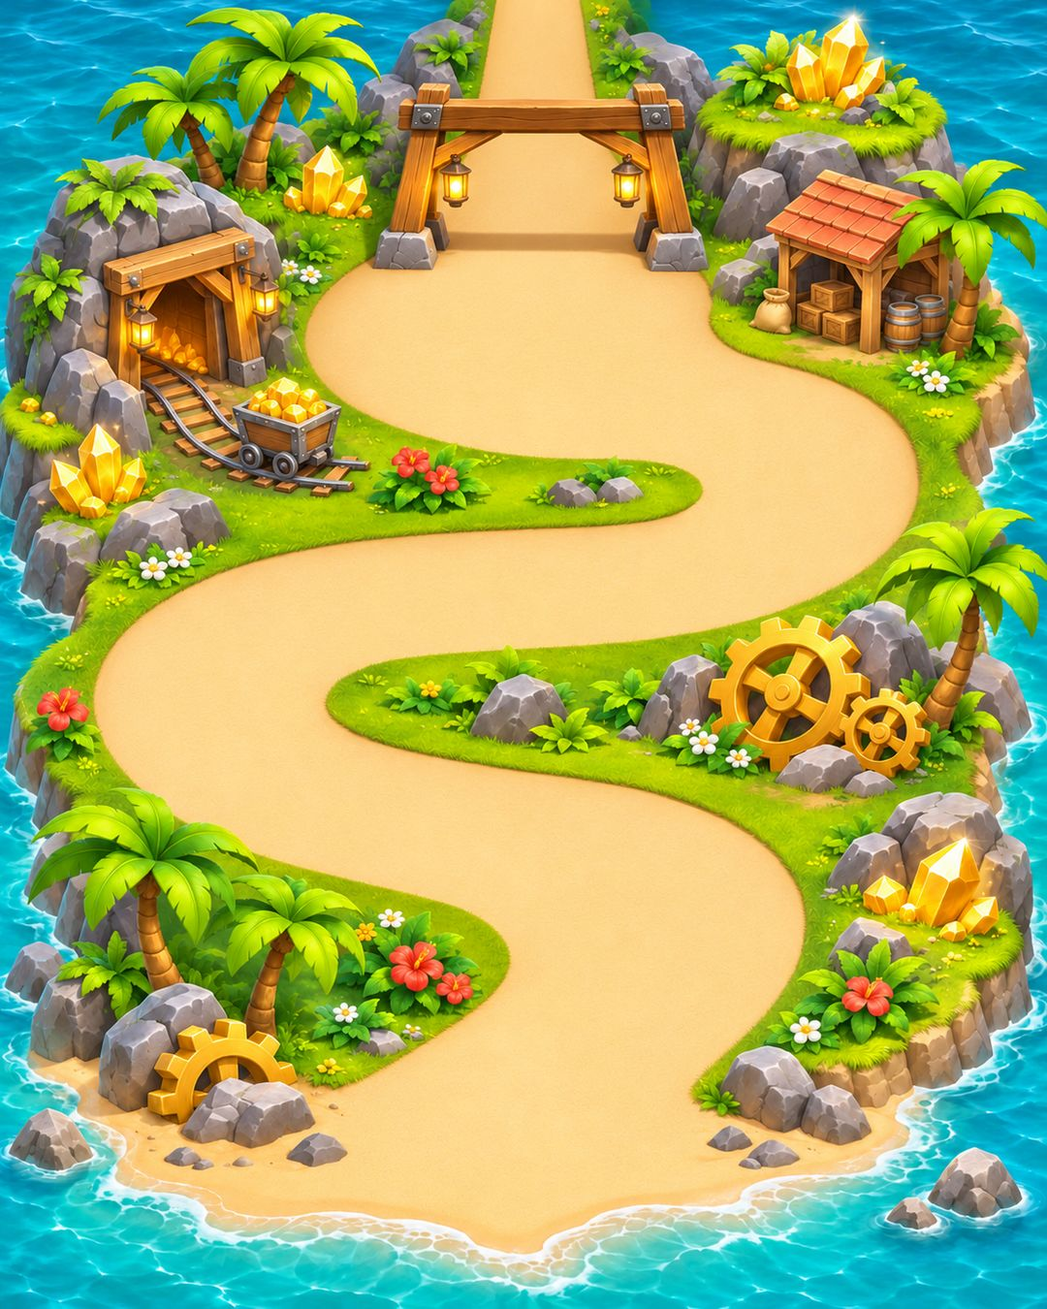
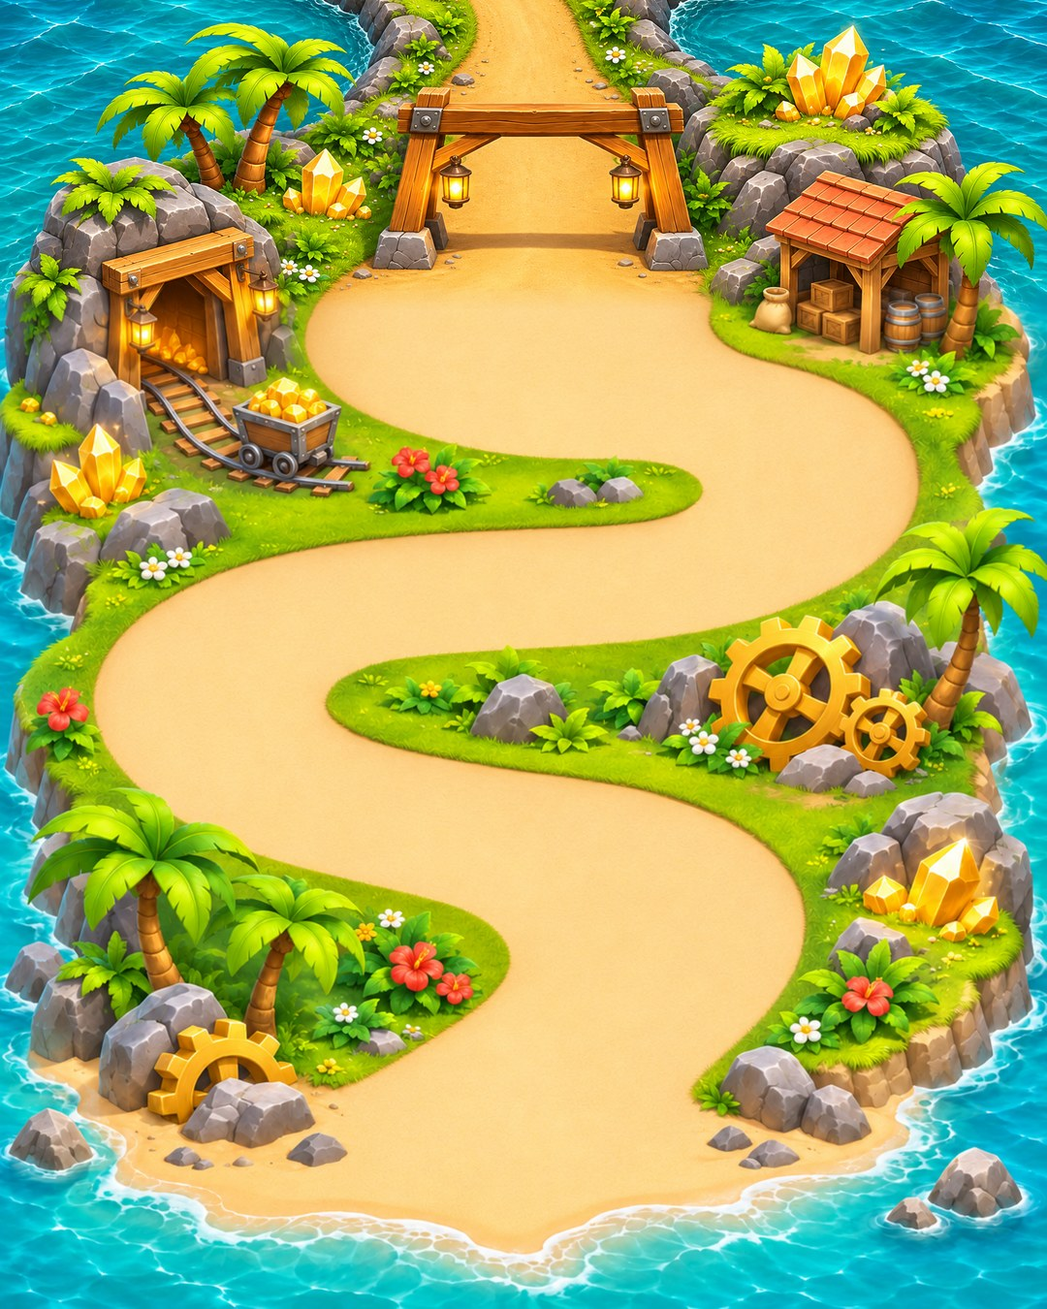
金島第二區「水晶礦谷」上線：開放到第 55 格
- 換上 Codex 核定版 v3 的第一區與第二區背景（成對使用；第一區上方 320px 為接縫修整，其餘與原圖一致、無位移）
- 第 31～55 格換成最終座標（31～34 在第一區圖上方道路，35～55 在水晶礦谷），格子類型為家長確認版
- 開放第二區：第 30 格可通過、第 55 格為邊界（回起點下一輪改在第 55 格），區域名稱與邊界訊息自動對應
- 地圖顯示所有已開放區域的格子；任意門可在整座島已開放的格子間傳送
- 更新單元測試與 E2E（55 格對齊、第 55 格停止、跨區移動）；sw.js 升版 cgp-shell-v45；App 版本 2026.11.07-35

Claude-Session: https://claude.ai/code/session_01W9KMAjsCX9MNXC5NxB6PY5

Changed region(s): [[0.0, 0.0, 1.0, 0.2489]]

diff --git a/tests/e2e.js b/tests/e2e.js
@@ -631,8 +631,8 @@ async function main() {
     await q.goto(url + '#map-' + id);
     await q.waitForSelector('#pawn');
     // 地圖：4 個命運格（暫用 🔮）＋圖例
-    assert.deepEqual(await q.$$eval('.mtile.mt-fate', (els) => els.map((e) => +e.dataset.n)), [11, 14, 21, 27]);
-    assert.equal(await q.locator('.mt-fate .tile-art img[src="images/tiles/fate.webp"]').count(), 4, '命運格用水晶球圖');
+    assert.deepEqual(await q.$$eval('.mtile.mt-fate', (els) => els.map((e) => +e.dataset.n)), [11, 14, 21, 27, 41, 44, 51]);
+    assert.equal(await q.locator('.mt-fate .tile-art img[src="images/tiles/fate.webp"]').count(), 7, '命運格用水晶球圖（第一、二區共 7 格）');
     await q.waitForFunction(() => [...document.querySelectorAll('.mt-fate img')].every((i) => i.complete && i.naturalWidth === 192));
     assert.match(await q.locator('.legend').innerText(), /命運/);
     // 擲 4 → 第 14 格命運格 → 後退 2 格到第 12 格（寶箱格不觸發）
@@ -643,7 +643,7 @@ async function main() {
     assert.match(msg, /命運卡[\s\S]*往回退了 2 格/);
     assert.match(msg, /停在第 12 格/);
     await q.click('#confirm [data-yes]');
-    assert.equal(await q.locator('[data-testid=pos]').innerText(), '12 / 30');
+    assert.equal(await q.locator('[data-testid=pos]').innerText(), '12 / 55');
     assert.equal(await q.locator('#pawn').getAttribute('data-tile'), 'gold-01-012');
     // 擲 2 → 第 14 格命運格 → 特殊任務：讚美與感謝（0.3）
     await q.evaluate(() => { const seq = [1.5 / 6, 0.3]; window.__cgpStore.random = () => (seq.length ? seq.shift() : 0); });
@@ -970,7 +970,7 @@ async function main() {
     const pt = await q.evaluate(() => {
       const view = document.getElementById('map-view').getBoundingClientRect();
       const cand = [...document.querySelectorAll('.mtile')].map((el) => ({ n: +el.dataset.n, r: el.getBoundingClientRect() }))
-        .filter((t) => t.n !== 7 && t.n < 30 && t.r.left > view.left + 10 && t.r.right < view.right - 60 && t.r.top > view.top + 10 && t.r.bottom < view.bottom - 10);
+        .filter((t) => t.n !== 7 && t.n < 55 && t.r.left > view.left + 10 && t.r.right < view.right - 60 && t.r.top > view.top + 10 && t.r.bottom < view.bottom - 10);
       const t = cand.find((c) => c.n === 5) || cand[0];
       return { n: t.n, x: t.r.left + t.r.width / 2, y: t.r.top + t.r.height / 2 };
     });
@@ -981,11 +981,11 @@ async function main() {
     assert.equal(await q.evaluate((cid) => window.__cgpStore.getPlayer(cid).bag.door, id), 0);
     await q.waitForSelector('#confirm[open]', { timeout: 10000 }).catch(() => {});
     if (await q.locator('#confirm[open] [data-yes]').count()) await q.click('#confirm [data-yes]');
-    // 飛行翼：前進 20 格（不超過第 30 格）
+    // 飛行翼：前進 20 格（不超過第 55 格）
     const before = await q.evaluate((cid) => window.__cgpStore.getPlayer(cid).pos, id);
     await q.evaluate(() => { window.__cgpStore.random = () => 0.5; });
     await q.click('.item-btn[data-kind=wings]');
-    await q.waitForFunction((b) => +document.querySelector('[data-testid=pos]').textContent.split(' ')[0] === Math.min(30, b + 20), before, { timeout: 15000 });
+    await q.waitForFunction((b) => +document.querySelector('[data-testid=pos]').textContent.split(' ')[0] === Math.min(55, b + 20), before, { timeout: 15000 });
     const over = await q.evaluate(() => document.documentElement.scrollWidth - document.documentElement.clientWidth);
     assert.ok(over <= 0);
     console.log('✔ 寶物商店 Phase 4A：道具列、神奇骰子＋命運重骰券、好運金牌、再來 3 次、任意門點選格子、飛行翼');
@@ -1275,6 +1275,7 @@ async function main() {
   // ---------- 金島第一區地圖：手機顯示、對齊、逐格移動、重新整理恢復、舊存檔遷移、第 30 格停止 ----------
   {
     const REGION = require('../js/board-gold.js');
+    const REGION02 = require('../js/board-gold-02.js');
     for (const width of [360, 390, 430]) {
       const cx = await browser.newContext({ viewport: { width, height: 800 }, deviceScaleFactor: 2, isMobile: true, hasTouch: true, serviceWorkers: 'block' });
       const q = await cx.newPage();
@@ -1313,7 +1314,7 @@ async function main() {
         };
       });
       const count = (t) => arts.types.filter((x) => x === t).length;
-      assert.deepEqual([count('start'), count('chest'), count('chance'), count('fate'), count('minigame'), count('boundary')], [1, 4, 5, 4, 3, 1], '格子圖示數量');
+      assert.deepEqual([count('start'), count('chest'), count('chance'), count('fate'), count('minigame'), count('boundary')], [1, 8, 9, 7, 6, 1], '格子圖示數量（第一、二區）');
       assert.deepEqual(arts.fit, ['contain']); assert.deepEqual(arts.bg, ['rgb(255, 255, 255)']);
       assert.deepEqual(arts.legend, ['chest.webp', 'chance.webp', 'fate.webp', 'minigame.webp', 'door.webp']);
       assert.ok(arts.startHere, '角色在起點：起點旗讓位');
@@ -1331,10 +1332,11 @@ async function main() {
           return { tiles, bgw: bg.width, pawnW: pr.width, pawnFeet: { x: pr.left + pr.width / 2, y: pr.bottom },
             tileC: tile ? (() => { const r = tile.getBoundingClientRect(); return { x: r.left + r.width / 2, y: r.top + r.height / 2 }; })() : null };
         });
-        assert.equal(m.tiles.length, 30, label + '：30 格');
+        assert.equal(m.tiles.length, 55, label + '：55 格（第一、二區）');
         for (const t of m.tiles) {
-          const j = REGION.tiles[t.n - 1];
-          assert.ok(Math.abs(t.cx - j.x) * m.bgw < 1.5 && Math.abs(t.cy - j.y) * m.bgw * 1.25 < 1.5, label + '：第 ' + t.n + ' 格對齊 JSON');
+          // 對照第一區背景：1～30 格用第一區 JSON；31～55 格用長地圖總覽座標換算（y 以第一區背景上緣為 0，第二區在其上方為負值）
+          const j = t.n <= 30 ? REGION.tiles[t.n - 1] : (() => { const r = REGION02.tiles[t.n - 31]; return { x: r.gx / 1080, y: (r.gy - 4050) / 1350 }; })();
+          assert.ok(Math.abs(t.cx - j.x) * m.bgw < 1.5 && Math.abs(t.cy - j.y) * m.bgw * 1.25 < 1.5, label + '：第 ' + t.n + ' 格對齊座標');
         }
         const tileW = m.tiles[0].w;
         if (m.tileC) {
@@ -1386,23 +1388,23 @@ async function main() {
         }, id);
         await q.reload(); await q.waitForSelector('#pawn');
         assert.equal(await q.locator('#pawn').getAttribute('data-tile'), 'gold-01-012', '舊整數格號遷移');
-        assert.equal(await q.locator('[data-testid=pos]').innerText(), '12 / 30');
-        // 第 30 格安全停止：從第 27 格擲 12，只走到 30，多餘步數捨棄，不能再擲
-        await q.evaluate((cid) => { const s = window.__cgpStore; s.setPlayerTile(cid, 27); s.save(); }, id);
+        assert.equal(await q.locator('[data-testid=pos]').innerText(), '12 / 55');
+        // 第 55 格（第二區邊界）安全停止：從第 52 格擲 12，只走到 55，多餘步數捨棄
+        await q.evaluate((cid) => { const s = window.__cgpStore; s.setPlayerTile(cid, 52); s.save(); }, id);
         await q.reload(); await q.waitForSelector('#pawn');
         await q.evaluate(() => { window.__cgpStore.random = () => 0.99; }); // 重新整理後才固定亂數（擲出 12）
         await q.click('[data-action=roll][data-kind=d12]');
         await q.waitForSelector('#confirm[open]', { timeout: 8000 });
-        assert.match(await q.locator('#confirm').innerText(), /木門[\s\S]*第二區即將開放[\s\S]*新的一輪/);
+        assert.match(await q.locator('#confirm').innerText(), /水晶礦谷的終點[\s\S]*齒輪工坊[\s\S]*即將開放[\s\S]*新的一輪/);
         assert.doesNotMatch(await q.locator('#confirm').innerText(), /通關/, '不是全島通關');
         await q.click('#confirm [data-yes]');
-        assert.equal(await q.locator('#pawn').getAttribute('data-tile'), 'gold-01-030');
+        assert.equal(await q.locator('#pawn').getAttribute('data-tile'), 'gold-02-055');
         assert.match(await q.locator('.map-hint').innerText(), /從起點開始新的一輪/);
         assert.equal(await q.evaluate((cid) => window.__cgpStore.getPlayer(cid).bag.d12, id), 1, '只扣一顆骰子');
         await q.screenshot({ path: SHOT_DIR ? path.join(SHOT_DIR, 'region-end.png') : path.join(require('os').tmpdir(), 'r2.png') });
       }
       await cx.close();
-      console.log('✔ 金島第一區地圖 ' + width + 'px：格子對齊、縮放拖曳、不橫向溢出' + (width === 390 ? '、逐格移動、重新整理恢復、舊存檔遷移、第 30 格停止' : ''));
+      console.log('✔ 金島第一、二區地圖 ' + width + 'px：55 格對齊、縮放拖曳、不橫向溢出' + (width === 390 ? '、逐格移動、重新整理恢復、舊存檔遷移、第 55 格停止' : ''));
     }
   }
 

diff --git a/js/board-gold-02.js b/js/board-gold-02.js
@@ -4,7 +4,7 @@
  */
 (function (root) {
   'use strict';
-  var GOLD_REGION02 = {"status":"draft","world":{"width":1080,"height":5400},"name":"水晶礦谷","backgroundStrip":{"y":2700,"height":1350},"tiles":[{"id":"gold-02-031","order":31,"gx":550,"gy":4290,"type":"normal"},{"id":"gold-02-032","order":32,"gx":540,"gy":4220,"type":"normal"},{"id":"gold-02-033","order":33,"gx":540,"gy":4150,"type":"chance"},{"id":"gold-02-034","order":34,"gx":540,"gy":4080,"type":"normal"},{"id":"gold-02-035","order":35,"gx":540.0,"gy":4010.0,"type":"chest"},{"id":"gold-02-036","order":36,"gx":591.5,"gy":3961.1,"type":"normal"},{"id":"gold-02-037","order":37,"gx":641.4,"gy":3910.6,"type":"minigame"},{"id":"gold-02-038","order":38,"gx":687.4,"gy":3856.5,"type":"normal"},{"id":"gold-02-039","order":39,"gx":725.3,"gy":3796.6,"type":"chance"},{"id":"gold-02-040","order":40,"gx":747.7,"gy":3729.5,"type":"normal"},{"id":"gold-02-041","order":41,"gx":745.5,"gy":3658.9,"type":"fate"},{"id":"gold-02-042","order":42,"gx":719.8,"gy":3592.9,"type":"chest"},{"id":"gold-02-043","order":43,"gx":680.1,"gy":3534.2,"type":"normal"},{"id":"gold-02-044","order":44,"gx":633.3,"gy":3480.8,"type":"fate"},{"id":"gold-02-045","order":45,"gx":583.0,"gy":3430.7,"type":"chance"},{"id":"gold-02-046","order":46,"gx":531.4,"gy":3381.9,"type":"normal"},{"id":"gold-02-047","order":47,"gx":480.0,"gy":3332.8,"type":"minigame"},{"id":"gold-02-048","order":48,"gx":430.6,"gy":3281.9,"type":"normal"},{"id":"gold-02-049","order":49,"gx":385.6,"gy":3227.0,"type":"chest"},{"id":"gold-02-050","order":50,"gx":349.6,"gy":3165.9,"type":"normal"},{"id":"gold-02-051","order":51,"gx":330.8,"gy":3097.7,"type":"fate"},{"id":"gold-02-052","order":52,"gx":337.4,"gy":3027.4,"type":"chance"},{"id":"gold-02-053","order":53,"gx":366.0,"gy":2962.7,"type":"chest"},{"id":"gold-02-054","order":54,"gx":407.3,"gy":2905.0,"type":"minigame"},{"id":"gold-02-055","order":55,"gx":454.9,"gy":2852.3,"type":"boundary"}]};
+  var GOLD_REGION02 = {"status":"final","world":{"width":1080,"height":5400},"name":"水晶礦谷","backgroundStrip":{"y":2700,"height":1350},"tiles":[{"id":"gold-02-031","order":31,"gx":550.0,"gy":4290.0,"backgroundId":"region01","type":"normal"},{"id":"gold-02-032","order":32,"gx":540.0,"gy":4220.0,"backgroundId":"region01","type":"normal"},{"id":"gold-02-033","order":33,"gx":540.0,"gy":4150.0,"backgroundId":"region01","type":"chance"},{"id":"gold-02-034","order":34,"gx":540.0,"gy":4080.0,"backgroundId":"region01","type":"normal"},{"id":"gold-02-035","order":35,"gx":540.0,"gy":4010.0,"backgroundId":"region02","type":"chest"},{"id":"gold-02-036","order":36,"gx":530.0,"gy":3937.6,"backgroundId":"region02","type":"normal"},{"id":"gold-02-037","order":37,"gx":530.0,"gy":3864.4,"backgroundId":"region02","type":"minigame"},{"id":"gold-02-038","order":38,"gx":557.8,"gy":3798.2,"backgroundId":"region02","type":"normal"},{"id":"gold-02-039","order":39,"gx":603.2,"gy":3740.9,"backgroundId":"region02","type":"chance"},{"id":"gold-02-040","order":40,"gx":650.8,"gy":3685.5,"backgroundId":"region02","type":"normal"},{"id":"gold-02-041","order":41,"gx":689.0,"gy":3623.3,"backgroundId":"region02","type":"fate"},{"id":"gold-02-042","order":42,"gx":704.5,"gy":3552.0,"backgroundId":"region02","type":"chest"},{"id":"gold-02-043","order":43,"gx":689.6,"gy":3481.2,"backgroundId":"region02","type":"normal"},{"id":"gold-02-044","order":44,"gx":650.2,"gy":3420.2,"backgroundId":"region02","type":"fate"},{"id":"gold-02-045","order":45,"gx":597.5,"gy":3369.4,"backgroundId":"region02","type":"chance"},{"id":"gold-02-046","order":46,"gx":540.1,"gy":3323.9,"backgroundId":"region02","type":"normal"},{"id":"gold-02-047","order":47,"gx":480.2,"gy":3281.8,"backgroundId":"region02","type":"minigame"},{"id":"gold-02-048","order":48,"gx":420.6,"gy":3239.3,"backgroundId":"region02","type":"normal"},{"id":"gold-02-049","order":49,"gx":362.8,"gy":3194.5,"backgroundId":"region02","type":"chest"},{"id":"gold-02-050","order":50,"gx":321.0,"gy":3134.7,"backgroundId":"region02","type":"normal"},{"id":"gold-02-051","order":51,"gx":325.4,"gy":3063.9,"backgroundId":"region02","type":"fate"},{"id":"gold-02-052","order":52,"gx":360.0,"gy":2999.8,"backgroundId":"region02","type":"chance"},{"id":"gold-02-053","order":53,"gx":409.0,"gy":2945.5,"backgroundId":"region02","type":"chest"},{"id":"gold-02-054","order":54,"gx":464.0,"gy":2897.1,"backgroundId":"region02","type":"minigame"},{"id":"gold-02-055","order":55,"gx":520.0,"gy":2850.0,"backgroundId":"region02","type":"boundary"}]};
   if (typeof module !== 'undefined' && module.exports) module.exports = GOLD_REGION02;
   else root.CGP_GOLD_REGION02 = GOLD_REGION02;
 })(typeof self !== 'undefined' ? self : this);

diff --git a/sw.js b/sw.js
@@ -1,8 +1,8 @@
 /* 親子集點 Service Worker：離線可用。資料存在 localStorage，不受快取影響。 */
-var CACHE = 'cgp-shell-v44';
+var CACHE = 'cgp-shell-v45';
 var SHELL = [
   './', 'index.html', 'css/style.css', 'js/store.js', 'js/rules-csv.js', 'js/report.js', 'js/board-gold.js', 'js/board-gold-02.js', 'js/game.js', 'js/art.js', 'js/app.js',
-  'manifest.webmanifest', 'images/gold-island.webp', 'images/gold-island.jpg', 'images/gold/region01.webp', 'images/gold/region01.jpg', 'images/gold/stone.webp', 'images/mascot.webp', 'images/float-castle.webp', 'images/chest.webp',
+  'manifest.webmanifest', 'images/gold-island.webp', 'images/gold-island.jpg', 'images/gold/region01.webp', 'images/gold/region01.jpg', 'images/gold/region02.webp', 'images/gold/region02.jpg', 'images/gold/stone.webp', 'images/mascot.webp', 'images/float-castle.webp', 'images/chest.webp',
   'images/characters/roundear.webp', 'images/characters/longear.webp', 'images/characters/horn.webp', 'images/characters/wing.webp',
   'images/characters/drop.webp', 'images/characters/sprout.webp', 'images/characters/flame.webp', 'images/characters/stone.webp', 'images/items/dice_6.webp', 'images/items/dice_12.webp', 'images/items/roller_skate.webp', 'images/islands/wood.webp', 'images/islands/water.webp', 'images/islands/fire.webp', 'images/islands/earth.webp', 'images/items/star.webp', 'images/tiles/start.webp', 'images/tiles/chest.webp', 'images/tiles/chance.webp', 'images/tiles/minigame.webp', 'images/tiles/finish.webp', 'images/tiles/door.webp', 'images/tiles/shop.webp', 'images/tiles/fate.webp', 'images/minigame/bg.webp', 'images/minigame/star.webp', 'images/items/shield.webp', 'images/items/magic_dice.webp', 'images/items/lucky_medal.webp', 'images/items/flying_wings.webp', 'images/items/magic_door.webp', 'images/items/mystery_chest.webp', 'images/items/airplane.webp', 'images/items/golden_key.webp', 'images/items/treasure_magnet.webp', 'images/items/reroll_ticket.webp', 'images/items/bonus_play.webp', 'icons/icon.svg', 'icons/icon-192.png', 'icons/icon-512.png'
 ];

diff --git a/js/game.js b/js/game.js
@@ -75,7 +75,7 @@
    */
   var WORLD = { width: 1080, height: 5400 };
   /** 第二區開放開關：水晶礦谷背景與最終座標到貨後改為 true */
-  var REGION02_OPEN = false;
+  var REGION02_OPEN = true;   // 2026-11-07 水晶礦谷背景（Codex 核定版 v3）上線
   // 事件依既有遊戲規格（JSON 的 eventType 僅為占位；第 30 格為區域邊界）
   var TYPES = { 3: 'chance', 5: 'chest', 7: 'minigame', 9: 'chance', 11: 'fate', 12: 'chest', 14: 'fate', 15: 'chance', 17: 'minigame',
     19: 'chest', 21: 'fate', 22: 'chance', 24: 'minigame', 26: 'chest', 27: 'fate', 28: 'chance' };
@@ -573,7 +573,10 @@
         } else ev.text = '今天已經玩過小遊戲了（每天 1 次），明天再來挑戰！';
       }
     } else if (tile.type === 'boundary') {
-      ev.title = '🚪 抵達礦場木門！'; ev.text = '你走完金島第一區「黃金沙灘與初級礦場」了！門後的第二區即將開放。\n下次出發會從起點開始新的一輪，寶箱也會重新放滿！';
+      var opened = REGIONS.filter(function (r) { return r.available; });
+      var lastR = opened[opened.length - 1], nextR = REGIONS[opened.length];
+      ev.title = '🚪 抵達' + lastR.name + '的終點！';
+      ev.text = '你走完金島第 1～' + lastR.to + ' 格了！' + (nextR ? '前方的「' + nextR.name + '」即將開放。' : '') + '\n下次出發會從起點開始新的一輪，寶箱也會重新放滿！';
     } else if (tile.type === 'end') {
       ev.title = '🏁 抵達金島終點！'; ev.text = '你走完金島測試版 30 格了！下一座島即將開放。';
     }
@@ -811,7 +814,6 @@
     n = Math.floor(Number(n));
     if (!(n >= 1 && n < end)) throw new Error('任意門不能傳送到這一格');
     if (n === p.pos) throw new Error('你已經在這一格了');
-    if (tiles[n].regionId !== tiles[p.pos].regionId) throw new Error('任意門只能傳送到目前區域');
     if (!(p.bag.door > 0)) throw new Error('背包裡沒有任意門');
     this._markDayStart(childId);
     var from = p.pos;

diff --git a/js/app.js b/js/app.js
@@ -4,7 +4,7 @@
 
   var CGP = window.CGP;
   /** 每次發布更新時修改，方便在「設定 → 備份」確認手機上是不是新版 */
-  var APP_VERSION = '2026.11.07-34';
+  var APP_VERSION = '2026.11.07-35';
   var store;
   try {
     store = new CGP.Store();
@@ -632,10 +632,10 @@
     var ended = store.isAdventureEnded(child.id);
     var reason = ended ? '🏁 今天的冒險已經結束了，明天見！' : !canPlay ? '🔒 今日冒險還沒出發，先回任務頁按「進入今日冒險」'
       : picking ? '🚪 任意門：點地圖上的格子選擇要去的地方'
-      : atEnd ? '🚪 已抵達礦場木門！下次出發從起點開始新的一輪'
+      : atEnd ? '🚪 已抵達目前開放區域的終點！下次出發從起點開始新的一輪'
         : noRolls ? '今天的 3 次骰子用完了，明天再來！（溜冰鞋還可以用）'
           : (!bag.d6 && !bag.d12 && !bag.skates ? '背包是空的，點左下角的商店用能量星星購買骰子' : '選一個道具出發吧！');
-    var tiles = board.tiles.filter(function (t) { return t.regionId === region.id; }).map(function (t) {
+    var tiles = board.tiles.map(function (t) {   // 長地圖：所有已開放區域的格子都顯示
       var p = worldXY(region, t);
       if (t.type === 'start') {
         return '<div class="mstart' + (t.id === player.tileId ? ' here' : '') + '" data-tile="' + t.id + '" style="left:' + p.x.toFixed(1) + 'px;top:' + p.y.toFixed(1) + 'px" aria-hidden="true">' +

diff --git a/docs/HANDOFF.md b/docs/HANDOFF.md
@@ -1,6 +1,6 @@
 # 親子集點冒險 App：交接文件
 
-> 最後更新：2026-11-07｜App 版本 `2026.11.07-34`｜Service Worker 快取 `cgp-shell-v44`
+> 最後更新：2026-11-07｜App 版本 `2026.11.07-35`｜Service Worker 快取 `cgp-shell-v45`
 > 給接手的開發者（或下一個 Claude session）。請先讀 `PROJECT_SPEC.md`，再讀本文件。
 
 ---
@@ -110,11 +110,13 @@
 | `tests/store.test.js` | 單元測試（`npm test`） |
 | `tests/e2e.js` | Playwright 手機尺寸 E2E（`npm run test:e2e`），含 360／390／430px 地圖檢查 |
 
-### 金島長地圖（準備開放第二區）
+### 金島長地圖（第一、二區已開放：第 1～55 格）
 - 地圖改為一條長地圖：總覽座標 1080×5400（左上原點），四張 1080×1350 背景由上到下為第四、三、二、一區（`REGIONS[].stripY` = 0、1350、2700、4050）。格子帶 `gx、gy`（總覽座標）與 `x、y`（所在背景圖內 0～1）；第一區換算 `gy = 4050 + y × 1350`，格子 ID 與存檔不變。
 - 未開放區域以雲霧＋「即將開放」遮住；最小縮放＝寬度填滿畫面。
 - 第二區資料 `data/gold_region02_tiles.json` → `tools/gen_board02.py` → `js/board-gold-02.js`（座標暫用 Codex 草圖 v2；類型已排好，見 `docs/art/gold_region02_layout_preview.png`）。
-- **開放第二區**：放入 `images/gold/region02.webp／.jpg`、依最終座標更新 JSON 並重新產生、把 `js/game.js` 的 `REGION02_OPEN` 改為 true、`sw.js` 加入圖片。開放後第 30 格變一般格、第 55 格為邊界，「回起點下一輪」改在第 55 格發生。
+- **2026-11-07 第二區（水晶礦谷）已上線**：Codex 核定版 v3（`region01` 與 `region02` 必須成對使用，第一區上方 320px 已為接縫修整）。`REGION02_OPEN = true`；第 30 格變一般格、第 55 格為邊界，「回起點下一輪」改在第 55 格。任意門可在整座島已開放的格子間傳送。
+- 背景用 WebP 品質 92（約 400KB／張）；接縫處誤差與整張圖相同，看不出接線。
+- 下一區（齒輪工坊 56～80）：Codex 提醒第 56～58 格要依第 55 格（520, 2850）與頂端出口重新對齊，建議第 56 格附近中心 (540, 83)（第二區圖內座標）。
 
 ### 近期介面調整
 - 冒險大廳簡化：移除背包區與四個快速入口（與底部導覽重複）；結算紀錄放進綠底「今日已結算」卡內，點了才展開。背包道具（含寶箱開箱、黃金鑰匙）統一在地圖下方的「🎒 背包道具」列。
@@ -145,7 +147,7 @@
 - 能量星星餘額 = `adventure.settlements` 總和 + `adventure.ledger`（購買為負）。**與生活點數完全分開**；生活點數金幣圖示印「點」，⭐ 只代表能量星星。
 - `child.avatar` 存冒險夥伴代號（8 種之一），同時是頭像與地圖棋子。圓形頭像依各角色臉部位置置中並統一臉部比例（`css/style.css` 末段 `.avatar img[data-char=…]`，以眼距為準、基準＝圓耳獸）。
 - 冒險位置以 `players[id].tileId`（例如 `gold-01-007`，起點 `gold-01-start`）為準；`pos` 由 tileId 推導。舊存檔只有整數時自動對應。
-- 金島第 30 格 `type: 'boundary'`：抵達即停、捨棄餘步。**第二區開放前的暫時規則**：在第 30 格時下一次移動從起點開始新的一輪（`_newLap()`，`players[id].laps` 計輪數），一般寶箱格重新放滿；第二區開放後改為往前走。
+- 目前開放的最後一格（第 55 格，`type: 'boundary'`）：抵達即停、捨棄餘步；下一次移動從起點開始新的一輪（`_newLap()`，`players[id].laps` 計輪數），一般寶箱格重新放滿。下一區開放後終點自動往後移。
 
 ### 預覽連結
 另外有 claude.ai Artifact 預覽（單檔版），由腳本把 CSS／JS 內嵌成一個 HTML，並以 `files` 參數附上 `images/`。CSS 內的 `url(../images/...)` 需改成 `url(images/...)`。

diff --git a/docs/art/GOLD_ISLAND_100_PLAN.md b/docs/art/GOLD_ISLAND_100_PLAN.md
@@ -1,7 +1,7 @@
 # 金島 100 格：Codex 配置草圖 v2 整理
 
 > 來源：Codex `gold_island_layout_review`（草圖 v2，**非正式背景、不可直接匯入**）。原始座標存於 `docs/art/gold_island_layout_draft_v2.json`。
-> 狀態：家長已決定採**一條連續長地圖**、劇情事件先不做。程式已改成長地圖結構（第二區資料已備妥、開關關閉），等水晶礦谷背景到貨。
+> 狀態：**第一、二區（第 1～55 格）已上線**（Codex 核定版 v3，接縫預覽 `docs/art/gold_region01_02_join_preview.png`）。下一步：齒輪工坊（56～80）、金冠城堡（81～100）。
 
 ## 1. 草圖內容
 
